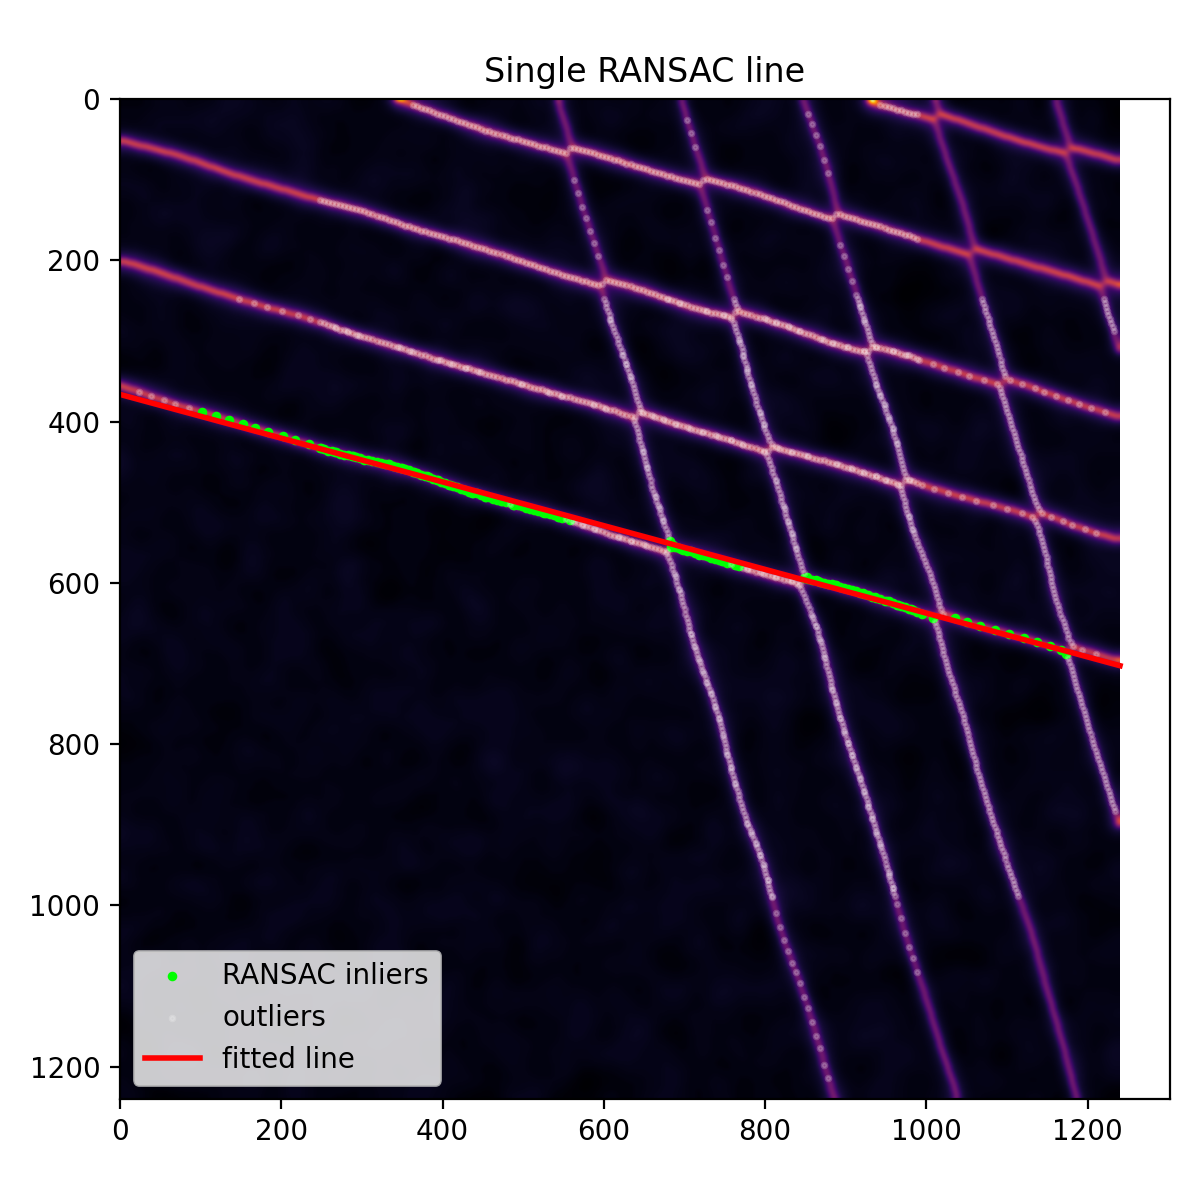
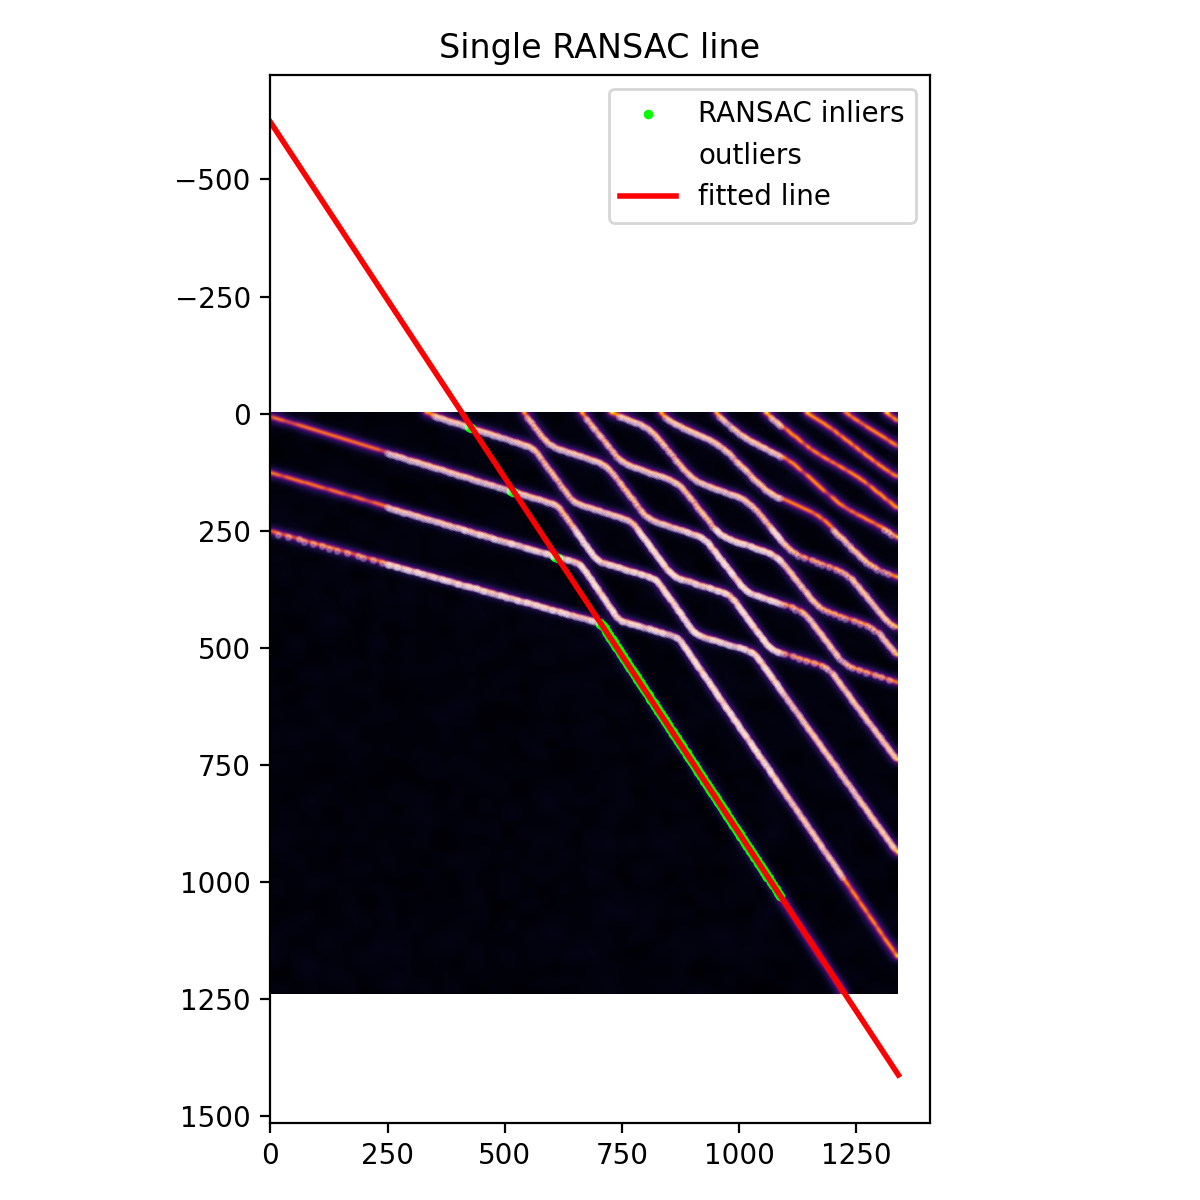
trying simCATS + orthogonalityb

diff --git a/1D/1D_extraction.py b/1D/1D_extraction.py
@@ -6,7 +6,7 @@ from scipy.signal import find_peaks
 
 # ── setup paths ─────────────────────────────────────────────
 img_folder = "CSD_generated_images"
-img_name = "csd_clean.png"
+img_name = "csd_clean_simCAT.png"
 input_path = os.path.join(img_folder, img_name)
 
 out_folder = "1D"
@@ -360,17 +360,18 @@ for i, line in enumerate(line_clusters):
     # original points
     ax.scatter(pts[:, 0], pts[:, 1], s=6, color=colors[i])
 
-    x_line = np.linspace(0, w, 500)
-y_line = slope * x_line + intercept
+    # 🔥 FULL THICK LINE
+    x_line = np.array([0, w])
+    y_line = slope * x_line + intercept
 
-valid = (y_line >= 0) & (y_line <= h)
-if valid.any():
-    ax.plot(x_line[valid], y_line[valid], color=colors[i], linewidth=2)
+    # No valid mask needed, just plot it! The locked axes will crop it visually.
+    ax.plot(x_line, y_line, color=colors[i], linewidth=2)
 
 # leftover noise
 if len(remaining_points) > 0:
     ax.scatter(remaining_points[:, 0], remaining_points[:, 1],
                s=3, color="white", alpha=0.2, label="noise")
+
 
 ax.set_title(f"Iterative RANSAC ({len(line_clusters)} lines)")
 ax.legend(fontsize=7)
@@ -399,26 +400,50 @@ print(f"Diagonal lines: {len(diagonal_lines)}")
 print(f"Steep lines: {len(steep_lines)}")
 
 # ── visualize both slope families ──────────────────────────
+from matplotlib.lines import Line2D
+
 fig, ax = plt.subplots(figsize=(6, 6))
 ax.imshow(img_smoothed, cmap="inferno")
+
+# Lock axes so it perfectly frames the image
+h, w = img_smoothed.shape
+ax.set_xlim(0, w)
+ax.set_ylim(h, 0)
 
 # diagonal lines (cyan)
 for line in diagonal_lines:
     pts = line["points"]
     ax.scatter(pts[:, 0], pts[:, 1], s=6, color="cyan")
+    
+    # Draw the solid line
+    x_line = np.array([0, w])
+    y_line = line["slope"] * x_line + line["intercept"]
+    ax.plot(x_line, y_line, color="cyan", linewidth=2, alpha=0.6)
 
 # steep lines (yellow)
 for line in steep_lines:
     pts = line["points"]
     ax.scatter(pts[:, 0], pts[:, 1], s=6, color="yellow")
+    
+    # Draw the solid line
+    x_line = np.array([0, w])
+    y_line = line["slope"] * x_line + line["intercept"]
+    ax.plot(x_line, y_line, color="yellow", linewidth=2, alpha=0.6)
 
-ax.set_title("Two slope families")
+# --- ADD THE CUSTOM PHYSICS LEGEND ---
+legend_elements = [
+    Line2D([0], [0], color="cyan", linewidth=2, label="diagonal family (α₁₂)"),
+    Line2D([0], [0], color="yellow", linewidth=2, label="steep family (α₂₁)")
+]
+ax.legend(handles=legend_elements, fontsize=9, loc="upper right")
+
+ax.set_title("Two slope families (Physical Crosstalk)")
 
 plt.tight_layout()
 plt.savefig(os.path.join(out_folder, "two_slope_families.png"), dpi=200)
 plt.close()
 
-print("Saved two slope families visualization")
+print("Saved two slope families visualization with custom legend")
 
 
 # ── STEP 4: EXTRACT BOTH SLOPE SETS ────────────────────────

diff --git a/1D/virtual_gates.py b/1D/virtual_gates.py
@@ -2,6 +2,7 @@ import os
 import json
 import numpy as np
 import matplotlib.pyplot as plt
+from scipy import stats
 from scipy.ndimage import affine_transform
 
 # ── 1. setup paths ──────────────────────────────────────────
@@ -76,7 +77,7 @@ plt.close()
 
 print(f"\nSUCCESS! Saved proof to: {out_img}")
 
-# ── 7. Save the Matrix ──────────────────────────────────────
+# ── 7. Save the Matrix & Validate Orthogonality ─────────────
 M_inv = np.linalg.inv(M)
 d1 = M_inv @ np.array([m1, 1.0])
 d2 = M_inv @ np.array([m2, 1.0])
@@ -84,12 +85,38 @@ cos_theta = np.dot(d1, d2) / (np.linalg.norm(d1) * np.linalg.norm(d2))
 angle = np.degrees(np.arccos(np.clip(cos_theta, -1, 1)))
 print(f"Post-transformation angle: {angle:.2f}° (ideal = 90.00°)")
 
+# Calculate Physics Matrix
+alpha_12 = m1
+alpha_21 = 1.0 / m2
+M_physics = np.array([
+    [1.0, alpha_12],
+    [alpha_21, 1.0]
+])
+
+# 95% Confidence Intervals
+n_diag = len(diag_slopes)
+n_steep = len(steep_slopes)
+
+ci_diag = stats.t.interval(0.95, df=n_diag-1, 
+                           loc=np.mean(diag_slopes), 
+                           scale=stats.sem(diag_slopes))
+
+ci_steep = stats.t.interval(0.95, df=n_steep-1, 
+                            loc=np.mean(steep_slopes), 
+                            scale=stats.sem(steep_slopes))
+
+print(f"Diagonal 95% CI: [{ci_diag[0]:.4f}, {ci_diag[1]:.4f}]")
+print(f"Steep    95% CI: [{ci_steep[0]:.4f}, {ci_steep[1]:.4f}]")
+
 matrix_data = {
-    "M_virtual_gate": M.tolist(),
+    "M_geometric": M.tolist(),
+    "M_physics": M_physics.tolist(),
     "diagonal_mean": float(m1),
     "steep_mean": float(m2),
     "slope_ratio": float(ratio),
-    "orthogonality_angle_deg": float(angle)
+    "orthogonality_angle_deg": float(angle),
+    "diagonal_95_CI": [float(ci_diag[0]), float(ci_diag[1])],
+    "steep_95_CI": [float(ci_steep[0]), float(ci_steep[1])]
 }
 
 with open(os.path.join(out_folder, "vg_matrix.json"), "w") as f:

diff --git a/CSD_gen_simCAT.py b/CSD_gen_simCAT.py
@@ -95,3 +95,33 @@ print(f"CSD shape         : {csd.shape}")
 print(f"Lead transitions  : {np.unique(lead_transitions).tolist()} unique values")
 print(f"Volt g1           : {VOLT_LIMITS_G1}")
 print(f"Volt g2           : {VOLT_LIMITS_G2}")
+
+import os
+
+# make a folder for the outputs if it doesn't exist
+out_dir = "CSD_generated_images"
+os.makedirs(out_dir, exist_ok=True)
+
+# save the raw clean array without the matplotlib axes for the slicing test
+clean_path_simcat = os.path.join(out_dir, "csd_clean_simCAT.png")
+
+fig_clean, ax_clean = plt.subplots(figsize=(7, 6.5))
+
+ax_clean.imshow(
+    signal_display,
+    origin="lower",
+    aspect="auto",
+    interpolation="bilinear",
+    cmap="inferno",
+    vmin=0.0,
+    vmax=1.0
+)
+
+# remove EVERYTHING visual
+ax_clean.axis("off")
+
+fig_clean.tight_layout()
+fig_clean.savefig(clean_path_simcat, dpi=200, bbox_inches="tight", pad_inches=0)
+plt.close(fig_clean)
+
+print(f"Saved clean simcats array: {clean_path_simcat}")
